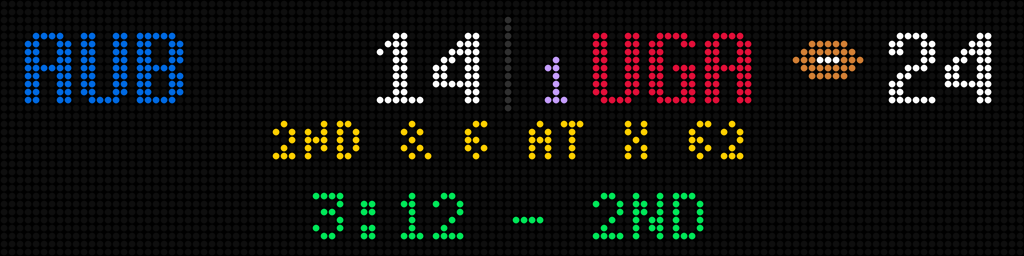
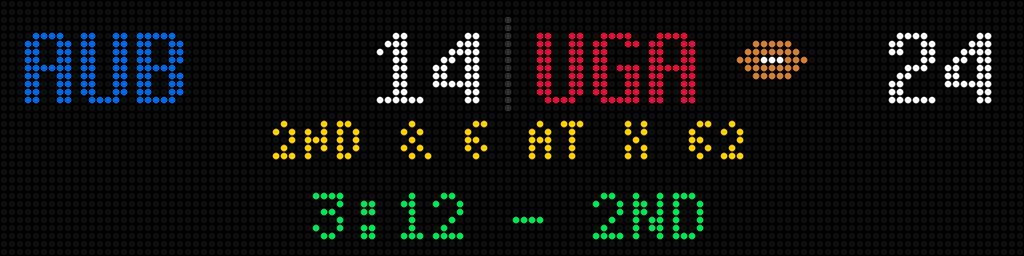
College: no rank badges on a live game's scoreboard or field band
Owner's call (2026-11-22): the number before each team is too cluttered
while a game is on, as it was on the halftime card. Pregame and the other
screens keep theirs.

Claude-Session: https://claude.ai/code/session_01PxRyi83d3tu2f5au5fuEqd

Changed region(s): [[0.5938, 0.125, 0.8438, 0.4062], [0.5, 0.125, 0.6562, 0.4062]]

diff --git a/tests/test_football_college_badges.py b/tests/test_football_college_badges.py
@@ -52,8 +52,8 @@ def test_the_badge_text_is_the_number_and_only_on_a_wide_panel():
 # -- the text scoreboard ------------------------------------------------------------------------
 
 
-def test_a_ranked_matchup_draws_both_badges_beside_the_abbreviations(update_snapshots):
-    g = ranked(GAMES["live"], away=5, home=12)
+def test_a_ranked_pregame_draws_both_badges_beside_the_abbreviations(update_snapshots):
+    g = ranked(GAMES["pregame"], away=5, home=12)
     c = scores(g)
     art = show("fb_scores_ranked", c)
     assert not c.out_of_bounds
@@ -67,7 +67,7 @@ def test_a_ranked_matchup_draws_both_badges_beside_the_abbreviations(update_snap
 
 
 def test_only_the_ranked_team_gets_a_badge(update_snapshots):
-    g = ranked(GAMES["live"], away=3)
+    g = ranked(GAMES["pregame"], away=3)
     c = scores(g)
     art = show("fb_scores_ranked_one", c)
     assert GOLD in c.colors(0, 0, 62, 14) and GOLD not in c.colors(64, 0, 127, 14)
@@ -86,31 +86,22 @@ def _team_xs(canvas, x0, x1):
     ]
 
 
-def test_the_abbreviation_moves_right_for_the_badge_and_the_score_stays_put():
-    plain, with_badge = scores(GAMES["live"]), scores(ranked(GAMES["live"], away=5, home=5))
+def test_the_abbreviation_moves_right_for_the_badge():
+    plain, with_badge = scores(GAMES["pregame"]), scores(ranked(GAMES["pregame"], away=5, home=5))
     for x0, x1 in ((0, 62), (64, 127)):
-        assert with_badge.bbox(x0, 0, x1, 14).x1 == plain.bbox(x0, 0, x1, 14).x1, (
-            "the score is right-aligned and does not move"
-        )
         assert min(_team_xs(with_badge, x0, x1)) > min(_team_xs(plain, x0, x1))
 
 
-def test_a_badge_is_dropped_rather_than_run_into_the_score():
-    # The longest FBS abbreviations are four letters (TA&M, M-OH): with a two-digit score the
-    # "25" badge still fits; with a three-digit score there is no room, so it is dropped.
-    two = ranked(game("TA&M", "M-OH", "in", 38, 41), away=25, home=24)
-    three = dataclasses.replace(
-        two,
-        away=dataclasses.replace(two.away, score=138),
-        home=dataclasses.replace(two.home, score=141),
-    )
-    assert GOLD in scores(two).colors(0, 0, 62, 14) and GOLD in scores(two).colors(64, 0, 127, 14)
-    c = scores(three)
-    assert not c.out_of_bounds
-    assert GOLD not in c.colors(0, 0, 127, 14), "no room: the badges are dropped, not squeezed"
-    for x0, x1 in ((0, 62), (64, 127)):
-        whites = [x for (x, y), rgb in c.lit(x0, 0, x1, 14).items() if rgb == fs.WHITE]
-        assert max(_team_xs(c, x0, x1)) < min(whites), "abbreviation then score, no overlap"
+@pytest.mark.parametrize("name", ["live", "red_zone", "big_scores"])
+def test_a_live_game_never_shows_a_rank_on_the_scoreboard_or_the_field_band(name):
+    # Owner's call (2026-11-22): too cluttered while the game is on. Drawn exactly as unranked.
+    base = GAMES[name]
+    for away, home in ((4, 17), (1, None), (None, 21), (25, 24)):
+        g = ranked(base, away=away, home=home)
+        assert scores(g).render() == scores(base).render()
+        assert field(g).render() == field(base).render()
+        assert GOLD not in scores(g).colors(0, 0, 127, H - 1)
+        assert GOLD not in field(g).colors(0, 0, 127, H - 1)
 
 
 def test_a_pregame_has_badges_and_no_scores():
@@ -149,23 +140,6 @@ def test_a_single_64px_panel_never_shows_a_badge_and_draws_as_before(name):
 # -- the field band and the halftime card --------------------------------------------------------
 
 
-def test_the_field_band_shows_the_ranks_when_there_is_room(update_snapshots):
-    # No down and distance (a kickoff, between quarters): the whole band is free for the badges.
-    g = ranked(GAMES["live_no_situation"], away=5, home=12)
-    c = field(g)
-    art = show("fb_field_ranked", c)
-    assert not c.out_of_bounds
-    assert GOLD in c.colors(0, 0, 127, 9), "the badges are in the band at the top"
-    check_snapshot("fb_field_ranked", art, update_snapshots)
-
-
-def test_with_a_down_and_distance_the_band_drops_badges_that_would_crowd_it():
-    # The common case on a Saturday: clock, score and "2ND&3" leave no room for two badges.
-    g = ranked(GAMES["live"], away=5, home=12)
-    assert GOLD not in field(g).colors(0, 0, 127, 9)
-    assert field(g).render() == field(GAMES["live"]).render(), "it is drawn exactly as unranked"
-
-
 @pytest.mark.parametrize("name", ["live", "red_zone", "big_scores"])
 def test_the_band_score_never_runs_into_the_down_and_distance(name):
     # Seen in a mockup: badges widened the score block into the "1ST&10" on the right.
@@ -194,16 +168,6 @@ def test_the_rank_colour_is_not_one_the_band_already_uses():
     assert sum(abs(a - b) for a, b in zip(GOLD, fs.SITUATION, strict=True)) > 150
 
 
-def test_the_band_drops_the_badges_when_the_clock_leaves_no_room_for_them():
-    g = ranked(GAMES["live"], away=5, home=12)
-    r = renderer(128)
-    for min_x, badges in ((0, True), (66, False)):
-        c = AsciiCanvas(128, H)
-        fs._score(r, c, g, 6, None, min_x=min_x)
-        assert not c.out_of_bounds, f"min_x={min_x}"
-        assert (GOLD in c.colors(0, 0, 127, 9)) is badges, f"min_x={min_x}"
-
-
 def test_the_field_band_without_ranks_is_unchanged():
     g = GAMES["live"]
     assert field(g).render() == field(ranked(g)).render()
@@ -221,10 +185,8 @@ def test_the_halftime_card_never_shows_a_rank():
             assert GOLD not in c.colors(0, 0, width - 1, H - 1)
 
 
-def test_the_ranks_are_still_drawn_on_the_scoreboard_and_the_field_band():
-    assert GOLD in scores(ranked(GAMES["live"], away=4, home=17)).colors(0, 0, 127, 20)
-    g = ranked(GAMES["live_no_situation"], away=5, home=12)
-    assert GOLD in field(g).colors(0, 0, 127, 9)
+def test_the_ranks_are_still_drawn_on_a_pregame_scoreboard():
+    assert GOLD in scores(ranked(GAMES["pregame"], away=4, home=17)).colors(0, 0, 127, 20)
 
 
 def test_the_game_helper_builds_unranked_teams():

diff --git a/src/scoreboard/display/football_scenes.py b/src/scoreboard/display/football_scenes.py
@@ -81,7 +81,7 @@ def draw_fb_scores(r: Renderer, canvas: Any, game: FbGame) -> None:
     label_x: dict[int, int] = {}
     for side, x0 in ((game.away, 0), (game.home, half)):
         x = x0 + 3
-        badge = rank_badge(side, r)
+        badge = "" if game.is_live else rank_badge(side, r)  # none in a live game
         if badge:
             # The abbreviation moves right to make room, unless that would run into the score.
             shift = text_width(r.fonts.small, badge) + 2
@@ -268,16 +268,15 @@ def _score(
 
     font = r.fonts.tiny
     ball_w = fball.sprite_width(fball.SMALL) + 1
-    limit = r.width if max_x is None else max_x
 
     def placed(badges: bool) -> tuple[list[tuple[str, str, tuple[int, int, int], int]], int, int]:
         parts = _score_parts(r, game, badges)
         total = sum(text_width(font, t) + gap for _, t, _, gap in parts) + 2 * ball_w
         return parts, total, max((r.width - total) // 2, min_x)
 
-    parts, total, x = placed(True)
-    if x + total > limit:  # no room for the badges between the clock and the down: drop them
-        parts, total, x = placed(False)
+    # No rank badges on a live game (owner's call, 2026-11-22: too cluttered); `badges` stays for
+    # the layout helpers' sake.
+    parts, _total, x = placed(False)
     teams = iter((AWAY, HOME))
     holder = None
     for kind, text, color, gap in parts:

diff --git a/football_screen.md b/football_screen.md
@@ -1289,14 +1289,14 @@ names as their mockups, which they replaced.
 
 ## College screens (#559)
 
-The `college-football` branch adds the FBS as its own sport in the ranked `[[teams]]` list (`sport = "college"`). It shares the football screens above, with the poll number in front of a ranked team (the 128px layout; a single 64px panel has no room), plus the screens below. The pictures are `scoreboard --demo --sport football`'s college steps (`football/college_demo.py`: real schools and colours, made-up rankings and scores), drawn without crests, which are never committed; a board with the college logos fetched (`scripts/fetch-logos.py --sport college`) draws them in the same places. Mockups from real ESPN captures are in `docs/college/` (`python scripts/college-mockups.py`).
+The `college-football` branch adds the FBS as its own sport in the ranked `[[teams]]` list (`sport = "college"`). It shares the football screens above, with the poll number in front of a ranked team on the screens that are not a live game (the 128px layout; a single 64px panel has no room). A live game's scoreboard and field band carry no number (owner's call, 2026-11-22: too cluttered), plus the screens below. The pictures are `scoreboard --demo --sport football`'s college steps (`football/college_demo.py`: real schools and colours, made-up rankings and scores), drawn without crests, which are never committed; a board with the college logos fetched (`scripts/fetch-logos.py --sport college`) draws them in the same places. Mockups from real ESPN captures are in `docs/college/` (`python scripts/college-mockups.py`).
 
 | | |
 |---|---|
 | ![cfb_scores_ranked](docs/football/cfb_scores_ranked.png) | ![cfb_scores_two_ranked](docs/football/cfb_scores_two_ranked.png) |
-| `cfb_scores_ranked`: A live game: the rank rides in front of each ranked team (`1 UGA`); the possession ball, down and distance below. | `cfb_scores_two_ranked`: Two ranked teams: both carry their number. |
+| `cfb_scores_ranked`: A live game with ranked teams: no numbers, by the owner's call; the possession ball, down and distance below. | `cfb_scores_two_ranked`: Two ranked teams, live: still no numbers. |
 | ![cfb_field](docs/football/cfb_field.png) | ![cfb_field_redzone](docs/football/cfb_field_redzone.png) |
-| `cfb_field`: The field band with the ranks, the same band the NFL uses. | `cfb_field_redzone`: The red zone: the 20 yards the offence attacks tint and the down and distance turns red (ESPN's `isRedZone`, as sent). |
+| `cfb_field`: The field band, the same band the NFL uses (no ranks while live). | `cfb_field_redzone`: The red zone: the 20 yards the offence attacks tint and the down and distance turns red (ESPN's `isRedZone`, as sent). |
 | ![cfb_halftime](docs/football/cfb_halftime.png) | ![cfb_scores_pregame](docs/football/cfb_scores_pregame.png) |
 | `cfb_halftime`: Halftime for a ranked team. | `cfb_scores_pregame`: A game still to come, ranks at the teams. |
 | ![cfb_countdown](docs/football/cfb_countdown.png) | ![cfb_touchdown](docs/football/cfb_touchdown.png) |

diff --git a/CLAUDE.md b/CLAUDE.md
@@ -129,7 +129,7 @@ Work is tracked in epics #532-#538 and done on the integration branch `college-f
 follows `docs/college-loop.md`**: the queue, the per-issue steps, auto-merge on green CI, and the
 rules it never breaks. Mockups of every college screen: `python scripts/college-mockups.py`
 (images in `docs/college/`). Live-game capture: `scripts/capture-college-live.py`.
-The halftime card never shows rank badges (owner's call, 2026-11-22, seen on a real board: a number before each team cluttered the score line); the scoreboard, the field band and the other screens keep theirs.
+The halftime card never shows rank badges (owner's call, 2026-11-22, seen on a real board: a number before each team cluttered the score line), and neither does a **live** game's scoreboard or field band (same night, same reason); the pregame scoreboard, the upset alert and the other screens keep theirs.
 The red zone marker (#562) is the NFL's drawing on the live field/scoreboard, driven by ESPN's `isRedZone`
 **as sent** (never derived from the yard line: the flag was not seen true in the one live game captured);
 no flag, no possessor or no situation draws nothing. On the field band a long down (`1ST&GOAL`) shrinks to
